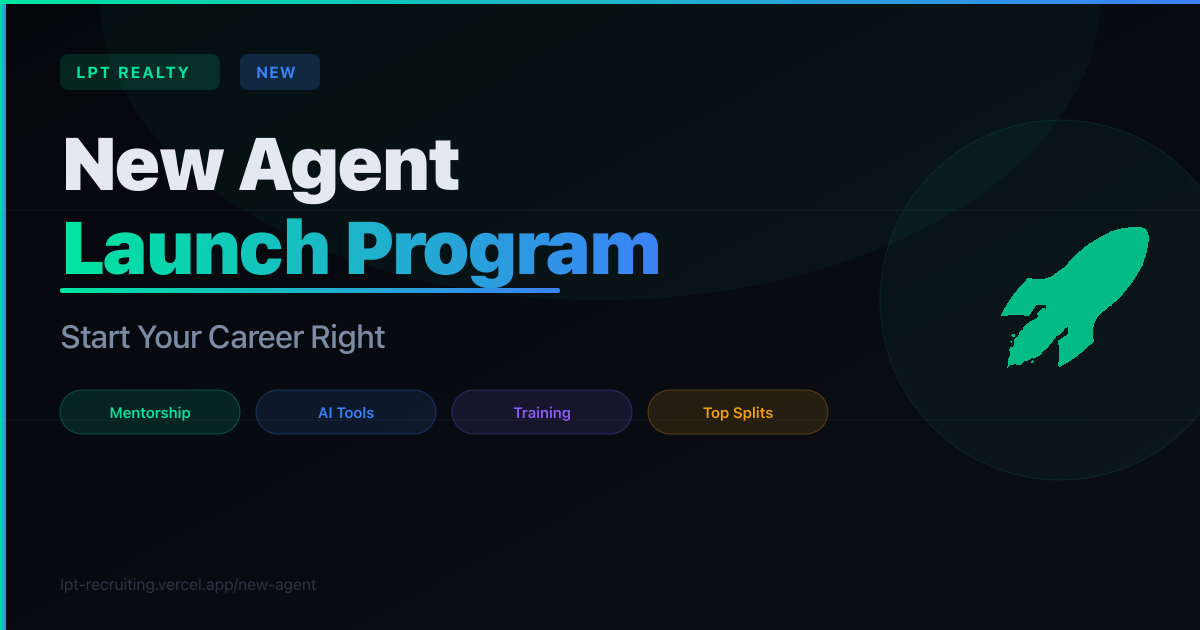
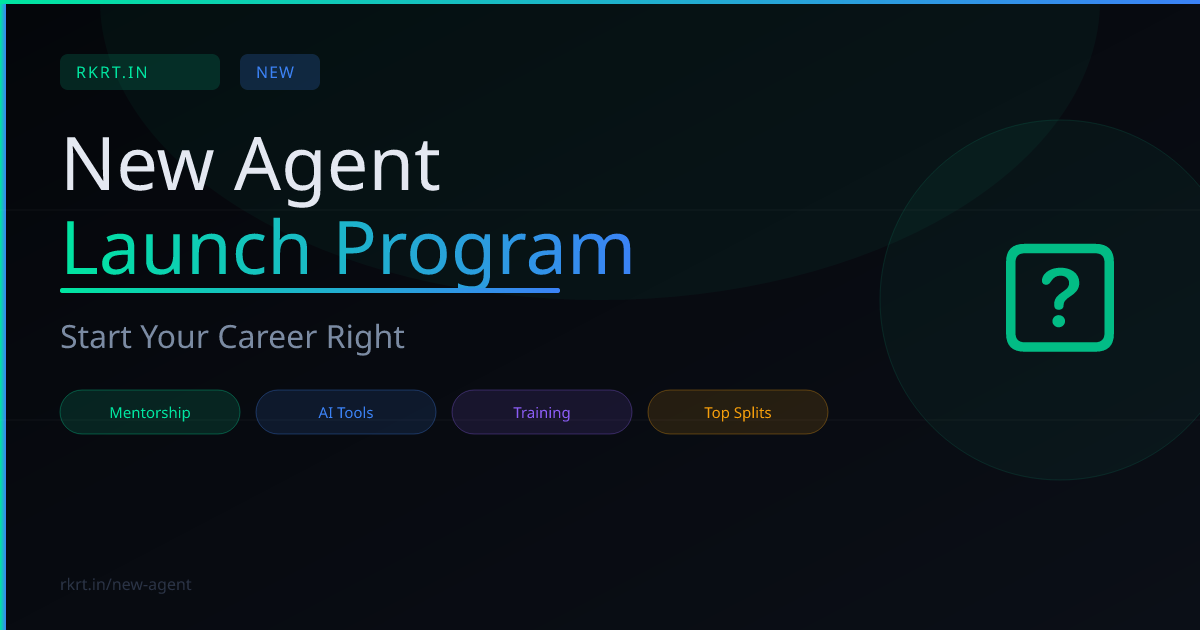
Update OG images and meta tags with rkrt.in branding

diff --git a/public/join/index.html b/public/join/index.html
@@ -3,9 +3,9 @@
 <head>
 <meta charset="UTF-8">
 <meta name="viewport" content="width=device-width, initial-scale=1.0">
-<title>Join LPT Realty — Keep More of What You Earn</title>
-<meta property="og:title" content="Join LPT Realty — Keep More of What You Earn">
-<meta property="og:description" content="Industry-leading splits, $0 desk fees, AI-powered tools. Join 50,000+ agents nationwide.">
+<title>Join rkrt.in — Keep More of What You Earn</title>
+<meta property="og:title" content="Join rkrt.in — Keep More of What You Earn">
+<meta property="og:description" content="Industry-leading splits, $0 desk fees, AI-powered tools. Recruiting intelligence on autopilot.">
 <meta property="og:image" content="https://rkrt.in/og/join.png">
 <meta property="og:type" content="website">
 <meta property="og:url" content="https://rkrt.in/join">

diff --git a/public/calculator/index.html b/public/calculator/index.html
@@ -3,9 +3,9 @@
 <head>
 <meta charset="UTF-8">
 <meta name="viewport" content="width=device-width, initial-scale=1.0">
-<title>Commission Calculator — See What You'd Keep at LPT Realty</title>
-<meta property="og:title" content="LPT Realty Commission Calculator">
-<meta property="og:description" content="Calculate your take-home with LPT's industry-leading splits. See the difference.">
+<title>Commission Calculator — rkrt.in</title>
+<meta property="og:title" content="Commission Calculator — rkrt.in">
+<meta property="og:description" content="Calculate your take-home with industry-leading splits. See the difference.">
 <meta property="og:image" content="https://rkrt.in/og/calculator.png">
 <meta property="og:type" content="website">
 <meta property="og:url" content="https://rkrt.in/calculator">

diff --git a/public/new-agent/index.html b/public/new-agent/index.html
@@ -3,8 +3,8 @@
 <head>
 <meta charset="UTF-8">
 <meta name="viewport" content="width=device-width, initial-scale=1.0">
-<title>New to Real Estate? Start Right at LPT Realty</title>
-<meta property="og:title" content="New to Real Estate? Start with LPT Realty">
+<title>New Agent Launch Program — rkrt.in</title>
+<meta property="og:title" content="New Agent Launch Program — rkrt.in">
 <meta property="og:description" content="Launch your real estate career with the best tools, training, and splits in the industry.">
 <meta property="og:image" content="https://rkrt.in/og/new-agent.png">
 <meta property="og:type" content="website">

diff --git a/public/revenue-share/index.html b/public/revenue-share/index.html
@@ -3,8 +3,8 @@
 <head>
 <meta charset="UTF-8">
 <meta name="viewport" content="width=device-width, initial-scale=1.0">
-<title>LPT Revenue Share — Build Passive Income in Real Estate</title>
-<meta property="og:title" content="LPT Realty Revenue Share — Build Passive Income">
+<title>Revenue Share — rkrt.in</title>
+<meta property="og:title" content="Revenue Share — rkrt.in">
 <meta property="og:description" content="Earn residual income by growing your team. Multi-tier revenue share program.">
 <meta property="og:image" content="https://rkrt.in/og/revenue-share.png">
 <meta property="og:type" content="website">

diff --git a/public/why-switch/index.html b/public/why-switch/index.html
@@ -3,8 +3,8 @@
 <head>
 <meta charset="UTF-8">
 <meta name="viewport" content="width=device-width, initial-scale=1.0">
-<title>Why Agents Are Switching to LPT Realty</title>
-<meta property="og:title" content="Why Top Agents Are Switching to LPT Realty">
+<title>Why Top Agents Switch — rkrt.in</title>
+<meta property="og:title" content="Why Top Agents Switch — rkrt.in">
 <meta property="og:description" content="Better commission splits, $0 fees, AI tools, and real support. See why agents switch.">
 <meta property="og:image" content="https://rkrt.in/og/why-switch.png">
 <meta property="og:type" content="website">
